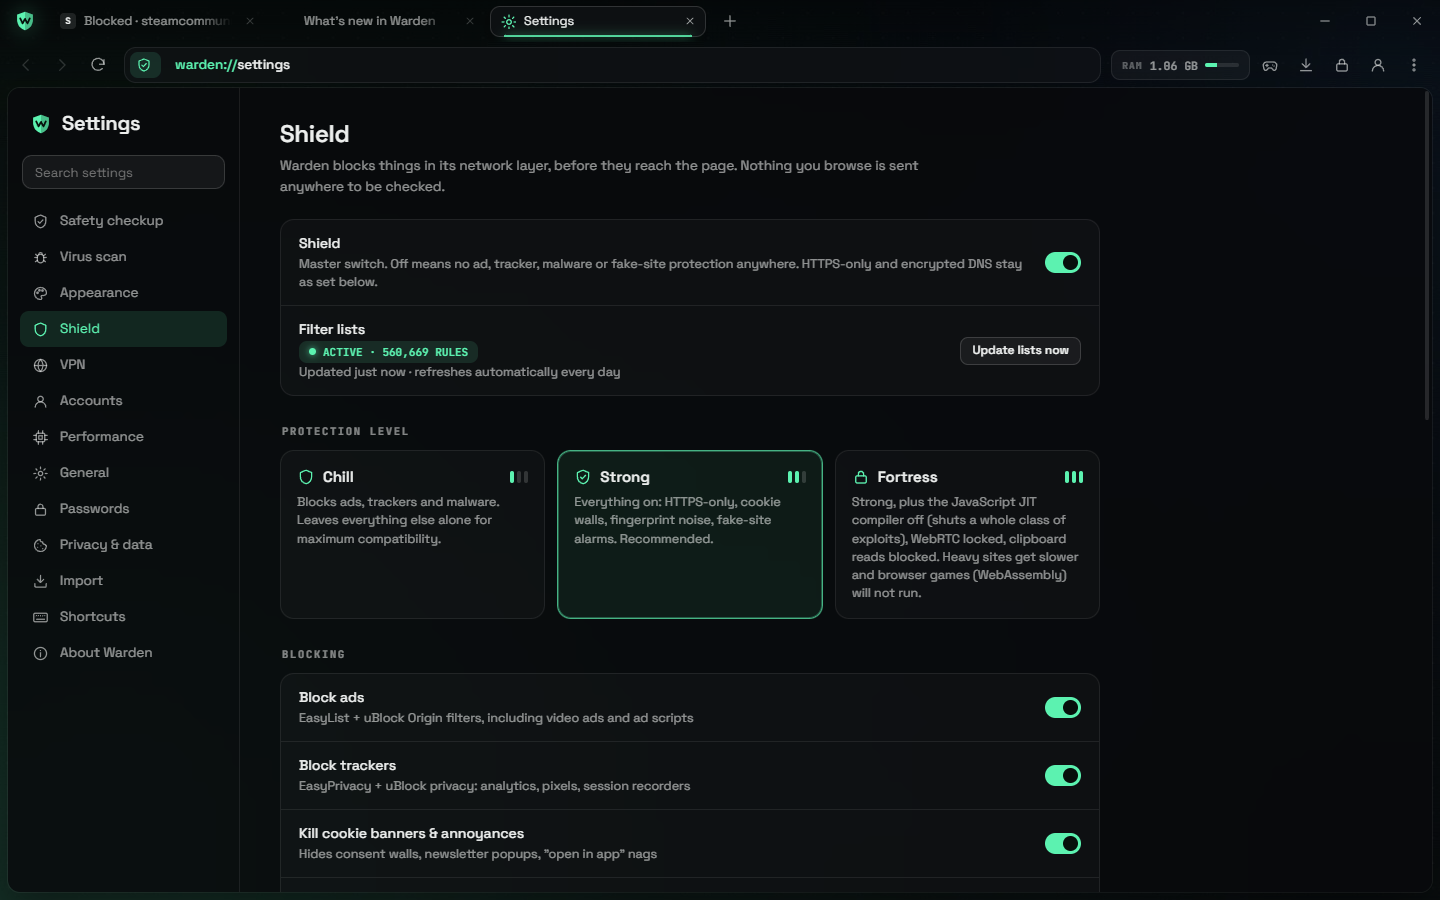
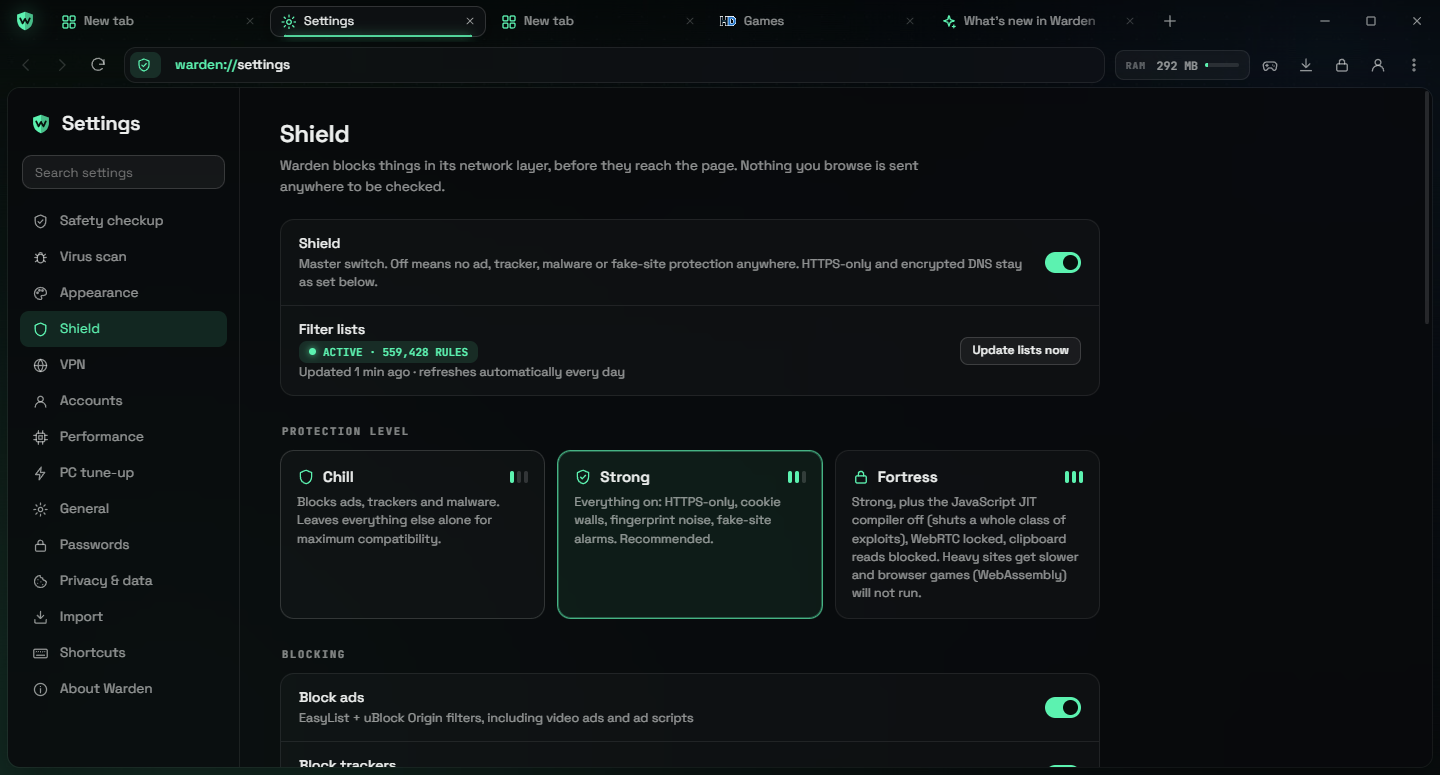
Update log for Warden 0.9.1

diff --git a/README.md b/README.md
@@ -49,12 +49,23 @@ There's no account to make, no ads, and nothing you browse is sent anywhere to b
 </p>
 
 ### 🎮 Built around your games
-- **Games tab** (Ctrl+G): your Steam, Xbox / Game Pass, Epic, Riot and Roblox games in one library, with cover art, playtime, patch notes and this week's free Epic games.
+- **Games tab** (Ctrl+G): your Steam, Xbox / Game Pass, Epic, Riot and Roblox games in one library with real cover art from every store, sorted into rows (Jump back in, Favorites, Most played, Rediscover, Never played). The games that matter get big wide artwork, the rest are posters.
+- **Free games, with a standard**: the biggest games that are free right now (or 95%+ off) on Steam, Epic, Xbox and GOG. Only the major stores, only games with real player counts, links checked to be the store's own: no shovelware, no shady key sites.
 - **Game mode**: while you play, Warden sleeps its tabs, lowers its own CPU priority and frees memory.
 - **Game focus**: pick Gamer, Streamer or Workstation. While a game runs, your other apps step back (low priority plus Windows' Efficiency mode) and the game comes first; alt-tab to any app and it gets its speed back while it's in front. Streamers: OBS gets priority over the game, so the stream doesn't drop frames. Voice chat, music, anti-cheat and mouse/headset software are never touched.
 - **PC tune-up**: finds the Windows settings that quietly cost FPS (Game Mode, background recording, windowed-game optimizations, mouse acceleration, power plan, GPU scheduling) and a monitor left at 60 Hz that can do more, and fixes each with one click, with Undo. It also checks how old your graphics driver and BIOS are, RAM speed (XMP/EXPO) and free disk space, and points you to the maker's own tools. It never turns off Windows security for speed.
 - **Sidecar** (Alt+Shift+C): a small always-on-top window for a guide, map or stream next to your game.
 - **Summon** (Alt+Shift+W): show or hide Warden from anywhere.
+
+<p align="center">
+  <img src="docs/screenshots/games.png" alt="Warden's Games tab: your library in rows with wide artwork for recent games" width="900">
+</p>
+<p align="center">
+  <img src="docs/screenshots/games-free.png" alt="Free games right now, from the major stores only" width="900">
+</p>
+<p align="center">
+  <img src="docs/screenshots/tuneup.png" alt="PC tune-up: pick Gamer, Streamer or Workstation and fix the Windows settings that cost FPS" width="900">
+</p>
 
 ### 👤 Several accounts, one window
 - Keep your main Gmail, school account, alt and gaming logins apart in **spaces**, each with its own sign-ins and cookies, like Chrome profiles but in one window.
@@ -68,7 +79,7 @@ There's no account to make, no ads, and nothing you browse is sent anywhere to b
 Streaming sites open in **Warden Media**, a separate copy signed for protected video (Widevine). That way the main Warden keeps all of its security switches on.
 
 ### 🔄 Updates itself, like Chrome
-Warden downloads new versions in the background and installs them when you close it. If it never closes properly (the PC shut down with it open), the update installs the next time it opens; left open for days, it updates itself once the PC has been idle for 20 minutes, and your tabs come back. After an update it shows you exactly what changed, including security fixes.
+Warden downloads new versions in the background and installs them when you close it. Even while it's closed, an hourly background check (a Windows scheduled task for your account, like Chrome's updater; no admin) fetches and installs a new version, so Warden is already up to date when you open it. If it never closes properly (the PC shut down with it open), the update installs the next time it opens; left open for days, it updates itself once the PC has been idle for 20 minutes, and your tabs come back. After an update it shows you exactly what changed, including security fixes.
 
 <p align="center">
   <img src="docs/screenshots/whatsnew.png" alt="Warden's What's new page after an update" width="760">
@@ -79,7 +90,7 @@ Warden downloads new versions in the background and installs them when you close
 1. Go to **[Releases](../../releases/latest)** and download **`Warden-Setup-<version>.exe`** (about 210 MB).
 2. Run it. It installs just for you, with **no admin prompt**, and adds Start menu and desktop shortcuts.
 3. Windows may show **"Windows protected your PC"**. Warden isn't code-signed yet, and SmartScreen warns about apps it hasn't seen many times before. Click **More info**, then **Run anyway**.
-4. A one-minute setup brings over your bookmarks from Chrome, Edge or Opera, signs you in to Google if you want, and picks your look. Every step can be skipped.
+4. A one-minute setup brings over your bookmarks from Chrome, Edge or Opera, signs you in to Google if you want, asks whether you game, stream or work (so Warden can tune your PC for it), and picks your look. Every step can be skipped.
 
 **Already have Warden?** You never need to download it again: it updates itself.
 
@@ -87,6 +98,8 @@ Warden downloads new versions in the background and installs them when you close
 
 <p align="center">
   <img src="docs/screenshots/onboarding.png" alt="Warden's first-run setup" width="760">
+  <br><br>
+  <img src="docs/screenshots/setup-profile.png" alt="Setup asks whether you're a gamer, streamer or use a workstation" width="760">
 </p>
 
 ## How updates stay safe

diff --git a/CHANGELOG.md b/CHANGELOG.md
@@ -4,6 +4,32 @@ Every Warden release, newest first: what’s new, what’s fixed, security fixes
 
 Installed copies update themselves. To install Warden for the first time, get the latest **Warden-Setup** from [Releases](../../releases/latest).
 
+## 0.9.1 · Updates while Warden is closed
+
+*5 November 2026*
+
+Warden now updates itself even while it’s closed, so it’s already on the newest version when you open it. Plus: PC tune-up never asks for admin rights, setup animates again, and Back gets you out of history traps.
+
+### New
+
+- Updates while Warden is closed, like Chrome: once an hour a Windows scheduled task (for your account only, no admin) runs Warden in the background with no window. If a new version is out and Warden isn’t open, it downloads it, checks its signature and installs it, so the next time you open Warden it’s already up to date. If Warden is open, it does nothing (the open Warden updates itself). Updates switched off in Settings → About means this does nothing too; uninstalling Warden removes the task.
+- Back gets you out of history traps: a page that adds a pile of history steps so Back keeps you on it is now skipped in one press (Back button, Alt+←, or the page menu), and Warden says so. Pages that only update their address while you scroll aren’t affected. (Thanks, Grok.)
+- Right-click the Back button for the pages behind you, like in Chrome. Steps one page added to itself show as one line (“20 steps”).
+- A flood of blocked popups from one site is one notice with a count, not a stack of them. (Thanks, Grok.)
+
+### Fixed
+
+- Ctrl+, (Settings) and other Warden pages always open in their own tab instead of replacing a new tab you were on.
+- Adding a game always confirms it, even when the library needs a refresh to show it.
+- Setup stood still on PCs where Windows’ “Animation effects” setting is off (common, and always the case over Remote Desktop and in Windows Sandbox): the steps no longer slid in and the artwork didn’t move. Setup now always animates; only Warden’s own Animations switch (Settings → Appearance) turns it off.
+
+### Security
+
+- PC tune-up no longer asks for administrator rights at all. Turning on GPU scheduling used to show a Windows permission prompt that only said “Windows Command Processor”, a prompt malware on the PC could have imitated while you were expecting it. That one setting now opens Windows’ own Graphics settings page instead. (Thanks, Grok.)
+- Fake sign-in windows drawn inside a page (Steam, Discord, Google, Microsoft, Roblox, Epic): the detector no longer misses a fake address bar that has an extra character, icon or word in front of the address. (Thanks, Grok.)
+- Game focus raises your game to “Above normal” instead of “High”: still ahead of every other app (they’re below normal and in Efficiency mode), without the risk of starving Windows’ own mouse and sound handling. (Thanks, Grok.)
+- A new refresh rate is now a trial: Warden asks “Keep this refresh rate?” and switches back by itself after 15 seconds without an answer, even if the screen goes black. It’s only saved once you click Keep. (Thanks, Grok.)
+
 ## 0.9.0 · Your game comes first
 
 *5 November 2026*
